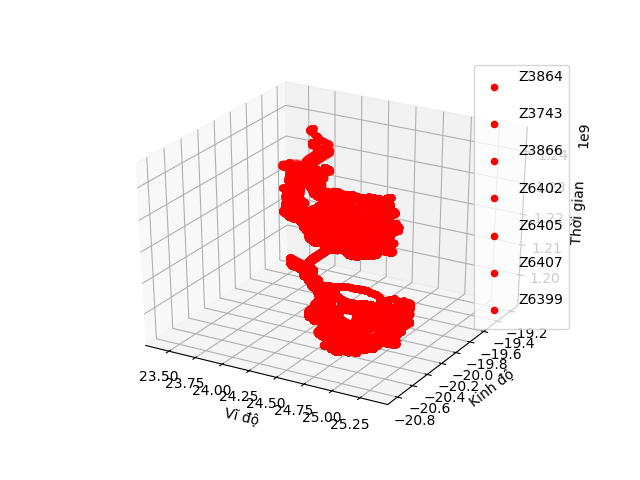
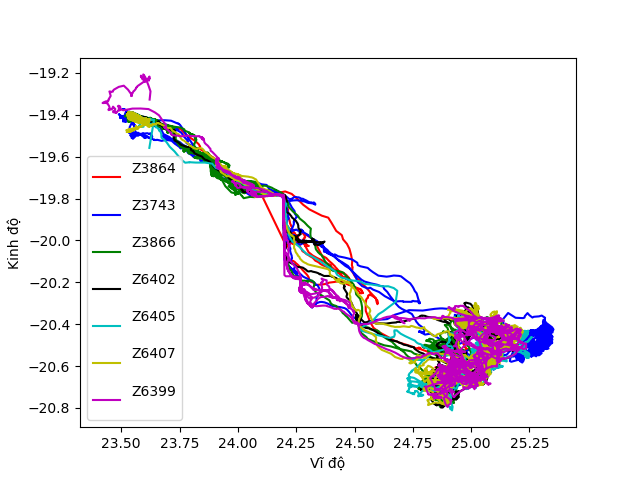
Update 19/06 Finish

diff --git a/Task3/Bai4/bai4.py b/Task3/Bai4/bai4.py
@@ -3,69 +3,95 @@ import numpy as np
 from collections import defaultdict
 from mpl_toolkits.mplot3d import Axes3D
 import math
+import datetime
 
+# Chuyen tu unixTime ve readData time
+def conventUnixTime(unixTime):
+    return datetime.datetime.fromtimestamp(
+        float(unixTime)
+    ).strftime('%Y-%m-%d')
+
+# Đọc dữ liệu từ file, đưa các con ngựa vào từng dict (id , list tọa độ)
 def readData(fileName):
     res = defaultdict(list)
     with open(fileName) as f:
         for x in f:
-            horse = x.split(",")        
+            horse = x.split(",")
+            horse[0] = conventUnixTime(horse[0])        
             idHorse = horse[3]                             
             res[idHorse].append(horse)
     return res
 
-
-list_horse = readData("ZebraBotswana.txt")    
-print(list_horse.keys()) 
-for keyName in list_horse.keys():
-    maxLen = 100000
-    t1, t2 =0, 0
-    for i in range(len(list_horse[keyName]) - 1):
-        x1 = float(list_horse[keyName][i][2])
-        y1 = float(list_horse[keyName][i][1])  
-        tmpt1 = float(list_horse[keyName][i][0])
-               
-        x2 = float(list_horse[keyName][i+1][1])       
-        y2 = float(list_horse[keyName][i+1][2])   
-        tmpt2 = float(list_horse[keyName][i+1][0])    
-
-        tempLen = float(math.hypot(x2 - x1, y2 - y1))
-        # deltaTime = (t2 - t1) / 86400 
-        # Cach 24h
-
-        # if(tempLen < maxLen and deltaTime >= 1): 
-        if(tempLen < maxLen): 
-            maxLen = tempLen
-            t1 = tmpt1
-            t2 = tmpt2
-            
-    print("Hai thời điểm mà",keyName,"có khoảng cách nhỏ nhất: ",t1,t2)
+# Tinh khoang cach gan nhat giua 2 ngay bat ki
+def minIn2Day(day1, day2):
+    res = 1000000000
+    for data1 in day1:
+        for data2 in day2:
+            resTemp = float(math.hypot(float(data2[0]) - float(data1[0]), float(data2[1]) - float(data1[1])))
+            if(resTemp < res): res = resTemp
+    return res
 
 
 
 
 
-# print(list_horse.keys())
-# print(list_horse['Z3864\n'][-1][0])
-fig = plt.figure()
-ax = fig.add_subplot(111, projection = "3d")
-x, y, z = [], [], []
+# Tìm 2 ngày mà có khoảng cách ngắn nhất
+def minOfHorse(horse):
+    res = 1000000000
+    day1, day2 = 0, 0
+    key = list(horse.keys())
+    for i in range(len(key)- 1):
+        day1 = key[i]
+        for j in range(1, len(key)):       
+            day2 = key[j]
+            resTemp = minIn2Day(horse[day1], horse[day2])
+            if(resTemp < res): 
+                res = resTemp
+    return res, day1, day2     
+
+
+
+
+
+# Tính khoảng cách của từng con ngựa
+list_horse = readData("ZebraBotswana.txt")  
+# print(list_horse['Z6399\n']) 
+for key in list_horse:
+    res = defaultdict(list)
+    for horse in list_horse[key]:  
+        viTri = [horse[1], horse[2]]
+        time = horse[0]
+        res[time].append(viTri)
+
+    lengh, day1, day2 = minOfHorse(res)
+    print("2 ngay co khoang cach gan nhau nhat cua id", key, "la ngay ", day1 , " va ngay ", day2, "\n",
+    "Khoảng cách ngắn nhất là", lengh)
+
+
+
+
+# Vẽ đường đi của ngựa
+
 
 color = ['r','b','g','k','c','y','m']
+index = -1
 for key in list_horse.keys():
-    index = -1
+    x, y = [], []
+    index += 1
+    c =  color[index] 
     for i in list_horse[key]:
         x.append(float(i[1]))
-        y.append(float(i[2]))
-        z.append(float(i[0]))
-        
-    ax.scatter(x, y, z, c= color[index + 1], marker='o', label =key)
+        y.append(float(i[2]))    
+    sorted(x)
+    sorted(y)
+    plt.plot(x, y, c = c, label = key)
     
 plt.legend()
-ax.set_xlabel('Vĩ độ')
-ax.set_ylabel('Kinh độ')
-ax.set_zlabel('Thời gian')
-plt.savefig("horse.png")
-plt.show()
+plt.xlabel('Vĩ độ')
+plt.ylabel('Kinh độ')
+plt.savefig("horse.png")  
+# plt.show()
+
         
 
 
